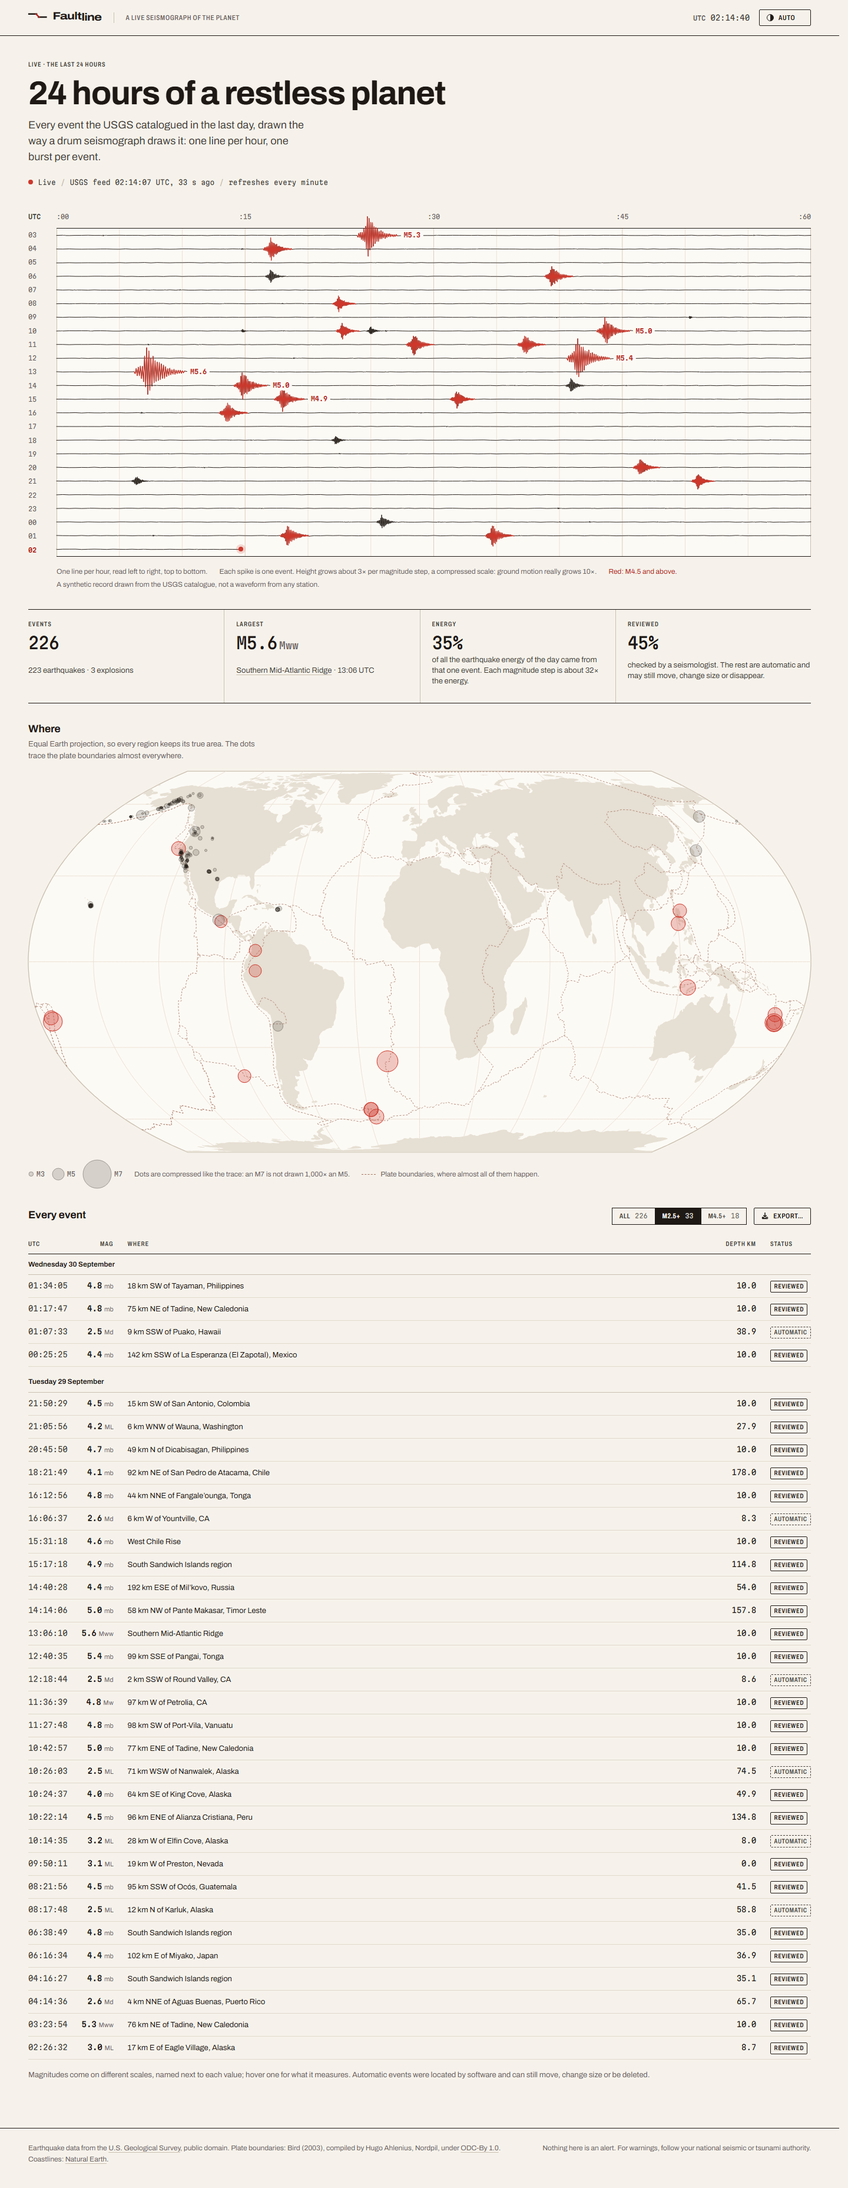
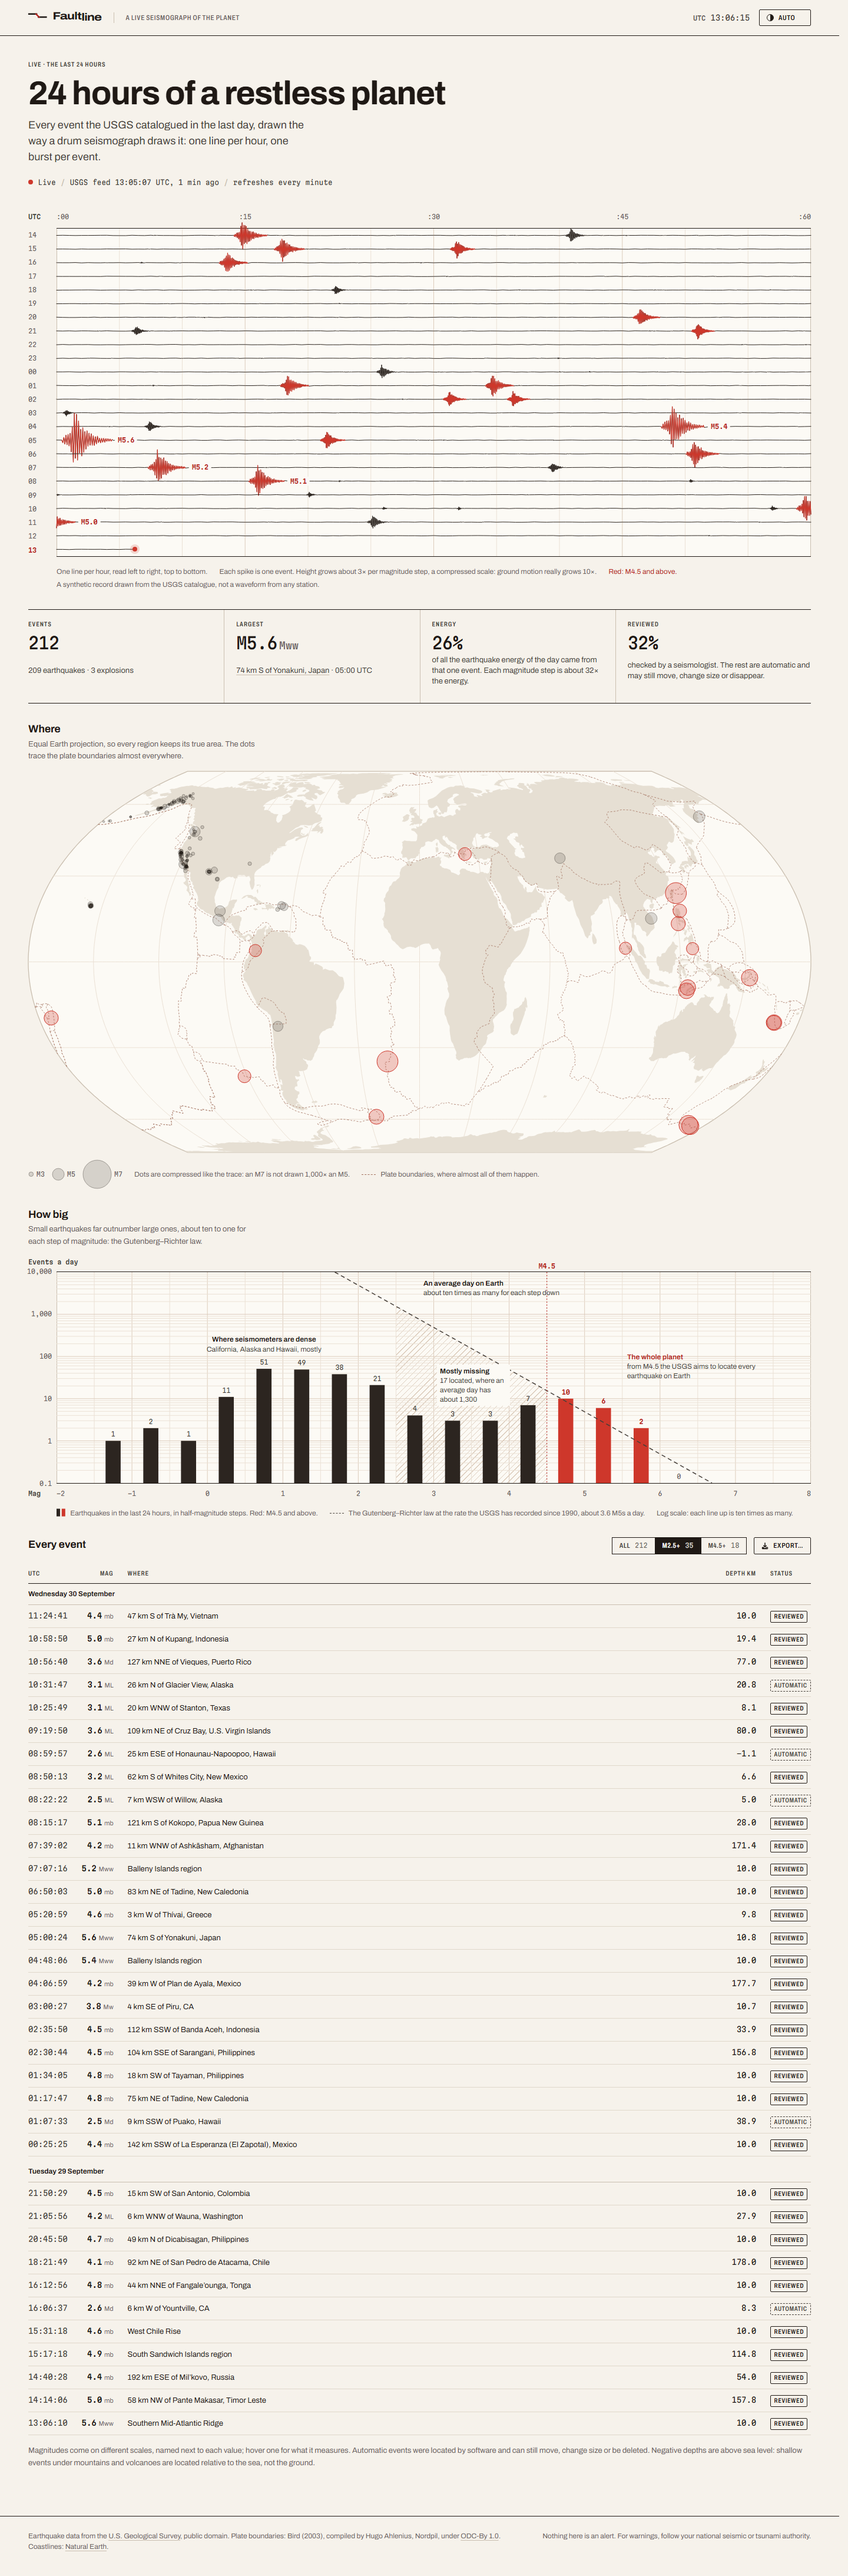
docs: add the trace reading and the sizes chart to the README and CLAUDE.md

diff --git a/README.md b/README.md
@@ -2,7 +2,7 @@
 
 A live seismograph of the planet, on top of the [USGS earthquake catalogue](https://earthquake.usgs.gov/earthquakes/feed/), which gathers what the global and US regional seismic networks locate: around two hundred events on an ordinary day.
 
-Read the last 24 hours the way a drum seismograph draws them, one line per hour and one burst per event, filter the log by magnitude, then open any event for its magnitude scale, how its depth was found, the uncertainty of its location and the energy it released. Any search of the catalogue, an event's aftershocks included, exports as a spreadsheet or as map data.
+Read the last 24 hours the way a drum seismograph draws them, one line per hour and one burst per event, and point at any burst, even one too small to see, for what it was. Set the day's sizes against an average day on Earth, filter the log by magnitude, then open any event for its magnitude scale, how its depth was found, the uncertainty of its location and the energy it released. Any search of the catalogue, an event's aftershocks included, exports as a spreadsheet or as map data.
 
 Angular 22, zoneless with signals, SSR with incremental hydration, and an Express backend-for-frontend.
 
@@ -17,7 +17,15 @@ Angular 22, zoneless with signals, SSR with incremental hydration, and an Expres
 
 **The whole page: readouts, the map and every event**
 
-![The full live page: the helicorder, the day's readouts, an Equal Earth map with plate boundaries and the event log](docs/screenshots/live-full-paper.png)
+![The full live page: the helicorder, the day's readouts, an Equal Earth map with plate boundaries, the day's sizes and the event log](docs/screenshots/live-full-paper.png)
+
+**Reading an event off the trace**
+
+![A card on the helicorder naming a small event whose burst barely shows: its magnitude and scale, place, time, depth and review](docs/screenshots/live-reading-paper.png)
+
+**The day's sizes against an average day on Earth, dark theme**
+
+![The day's earthquakes by magnitude on semi-log paper, the Gutenberg–Richter law dashed across them and the hatched stretch the catalogue mostly misses](docs/screenshots/sizes-film.png)
 
 **One event, with its uncertainty**
 
@@ -87,7 +95,7 @@ Depths are unsure in two directions. Many are fixed by an analyst when the data 
 
 | Route | What it is |
 | --- | --- |
-| `/` | The last 24 hours: the helicorder, the day's readouts, the map and every event, and an export of any search |
+| `/` | The last 24 hours: the helicorder, the day's readouts, the map, the day's sizes against an average day, every event, and an export of any search |
 | `/?min=4.5` | The same page with the log at another threshold: `all`, `2.5` (the default) or `4.5` |
 | `/quakes/:id` | One event: magnitude and its scale, depth and how it was found, location uncertainty, energy, impact alert, and an export of the events around it |
 
@@ -101,6 +109,8 @@ Depths are unsure in two directions. Many are fixed by an analyst when the data 
 - **Cached, paced and honest about failure.** Each feed is fetched at most once a minute however many people are reading, and concurrent misses share one upstream call. When the USGS stops answering, the last good copy is served and flagged, and the page says how old it is. Each client address gets a token bucket, bursts of 60 and then one request a second, and every USGS call the cache cannot answer, event lookups, counts and export pages alike, shares one budget for the whole process, so however many addresses a script rotates through, the USGS sees at most ten calls at once and two a second after that.
 - **An export holds every match, or it does not start.** The dialog counts a search as it is narrowed, and one past 100,000 events is refused before the first byte, with two narrower searches that fit, each counted before it is offered. The file streams from the BFF as the USGS pages arrive, keyed by time rather than offset, since events landing mid-export would shift every offset after them, and a failure halfway cuts the connection, so a truncated file never passes for a whole one. The CSV opens in Excel with its accents intact, and a cell that starts like a formula is written as text.
 - **The helicorder is synthetic, deterministic and says so.** No station hears the whole planet and the feed carries no waveforms, so each event becomes a burst placed at its origin time and sized from its magnitude, on a compressed scale the legend states. The paths are a pure function of the events and the clock, so the server and the browser draw the same thing.
+- **Any burst can be read, by pointer, finger or keyboard.** The trace is one path per hour, so there is nothing on it to hover. A point is matched to the nearest burst instead, anywhere along its length and within a reach that grows for a finger, which is the only way to find most small events: they barely move the line. The card stays up while the pointer moves onto it and closes with Escape, as WCAG 1.4.13 asks of content shown on hover. To the keyboard the trace is a slider over the day's events, whose value names the event read, so a screen reader hears what the card shows.
+- **The day's sizes are set against the law, not just counted.** On its own, a day of the feed holds fewer M3s than M4.5s, as if the planet made few of them. Drawn on semi-log paper against the Gutenberg–Richter law, anchored on the counted rate of M5s, the chart shows what the catalogue can hear: every earthquake from about M4.5, the NEIC's goal for the world, and below that only what a dense regional network caught, named by region. The stretch between is hatched, with how many it holds against how many an average day brings.
 - **The map is a file, not a library.** Coastlines and plate boundaries are projected to Equal Earth once, by `pnpm basemap`, into a static SVG the page references with `<use>`: cached once, outside the JavaScript bundle, and coloured by the theme through CSS. Equal Earth keeps every region at its true area, which Mercator would not for Alaska, the busiest corner of the feed.
 - **Dialogs are the platform's.** `ui-dialog` is the native `<dialog>`, opened with `showModal()`: the page behind is inert, Escape and a click outside close it, and focus returns to the button that opened it, none of it reimplemented. It fades in with `@starting-style`, fills the screen on a phone with its actions under the thumb, and its code is a separate chunk, fetched when the browser is idle and rendered on the first click.
 - **Server state is TanStack Query, only where it is used.** The live count is one query per search, so going back to a choice answers from memory, and the last count stays up, marked provisional, while the next one loads. The query client is provided inside the dialog's chunk through an injection token, not in the app config, so the library never reaches the first load. The custom period is a Signal Form checked by the same Zod schema the BFF applies, imported as `zod/mini`, because the classic API cannot be tree-shaken.
@@ -119,7 +129,7 @@ pnpm run ci    # format, lint, types, and the unit specs with coverage
 pnpm run e2e   # Playwright across two viewports, on a production build
 ```
 
-The suites divide by what they can see. Vitest covers the domain, the USGS mapping, the cache, the API router, the export's paging and CSV, and the helicorder geometry as plain functions, and components through the DOM they render. Playwright owns what only a browser and the real server can answer: whether the page is complete before any script runs, whether hydration asks the API again, which status a crawler gets for a missing event, what an outage looks like, and what a downloaded file really holds. It runs the production server against a stub of the USGS serving a small, awkward day, searchable and exportable like the real service, and audits every page and the export dialog with axe against WCAG 2.2 AA in both themes. Three things were broken until the suite caught them: error pages refetched while hydrating, the top bar and footer sat outside any landmark, and the Export button lost a press that landed while its section was hydrating.
+The suites divide by what they can see. Vitest covers the domain, the USGS mapping, the cache, the API router, the export's paging and CSV, the helicorder geometry, what a point on the trace means and the day's distribution of sizes as plain functions, and components through the DOM they render. Playwright owns what only a browser and the real server can answer: whether the page is complete before any script runs, whether hydration asks the API again, which status a crawler gets for a missing event, what an outage looks like, what a downloaded file really holds, and whether a burst can be read by mouse, by finger and from the keyboard. It runs the production server against a stub of the USGS serving a small, awkward day, searchable and exportable like the real service, and audits every page, the export dialog and a card read off the trace with axe against WCAG 2.2 AA in both themes. Five things were broken until the suite caught them: error pages refetched while hydrating, the top bar and footer sat outside any landmark, the Export button lost a press that landed while its section was hydrating, the chart's hidden table widened the page on a phone, and the trace's labels were too small as targets once the trace under them became one.
 
 The first run needs the browser: `pnpm exec playwright install chromium`.
 

diff --git a/CLAUDE.md b/CLAUDE.md
@@ -30,6 +30,7 @@ Layers are enforced by ESLint (`eslint.config.js`); do not weaken the rules to m
 - Styles: component CSS reads semantic tokens only (`src/styles/tokens.css`). New colours are added as primitives and exposed through a semantic token with `light-dark()`. No Tailwind, no component library.
 - Selectors: `fl-` for app components, `ui-` for design-system components.
 - Dialogs: `ui-dialog`, on the native `<dialog>`; never a hand-built overlay. A dialog's code is its own chunk, rendered with `@defer (when open(); prefetch on idle)`.
+- Charts: SVG drawn by a pure module beside the component (`trace.ts`, `distribution.ts`), so the server and the browser draw the same thing. The drawing is `aria-hidden`, and what it says is also in text: a caption, and where the numbers matter a visually hidden table.
 - Icons: Font Awesome solid SVGs through `ui-icon`, registered in `ui/icons.ts`. Beside a word an icon is decoration; a control that has only an icon, like a dialog's close button, carries an `aria-label`. A standalone link to another site ends with the external-link icon; a link inside running text does not.
 - Honest data: a missing value renders as `—`, never as zero; provisional and reviewed values must look different; scales and uncertainties are shown next to the numbers they qualify.
 - Comments explain why, at the line that needs it. No comments that restate the code.
@@ -46,6 +47,8 @@ Layers are enforced by ESLint (`eslint.config.js`); do not weaken the rules to m
 - A page that renders without its data sets the failure status through `RESPONSE_INIT` (see `live-page.ts`, `quake-page.ts`).
 - Inside a block with `hydrate` triggers, a nested `@defer` renders on the state its handler sets (`when open()`), not `on interaction`: a click replayed after hydration reaches `(click)` handlers, never a trigger's own listener (see `export-button.ts`).
 - Two dependencies are patched (`patches/`, reasons in `pnpm-workspace.yaml`). An install that fails to apply one means the file changed upstream: check whether the fix shipped before re-creating the patch.
+- A visually hidden `<table>` still widens the page, since a table grows to fit its cells whatever width it is given: hide a wrapper `div` instead (see `magnitude-chart.html`).
+- The trace is a target of its own, so every label on it is a target beside another, and WCAG 2.5.8 then wants it 24 px tall. The labels keep their look by masking only the band behind their text (see `helicorder.css`).
 - The initial bundle budget is tight on purpose, 400 kB to warn and 450 kB to fail. A library that drags all of Angular into the first load shows up there first: find the cause with `pnpm build --stats-json` rather than raise the budget.
 - In a unit spec, a TanStack query in flight is a pending task, so `whenStable()` waits for an answer the spec has yet to give. Render with `TestBed.tick()` instead (see `export-dialog.spec.ts`).
 
